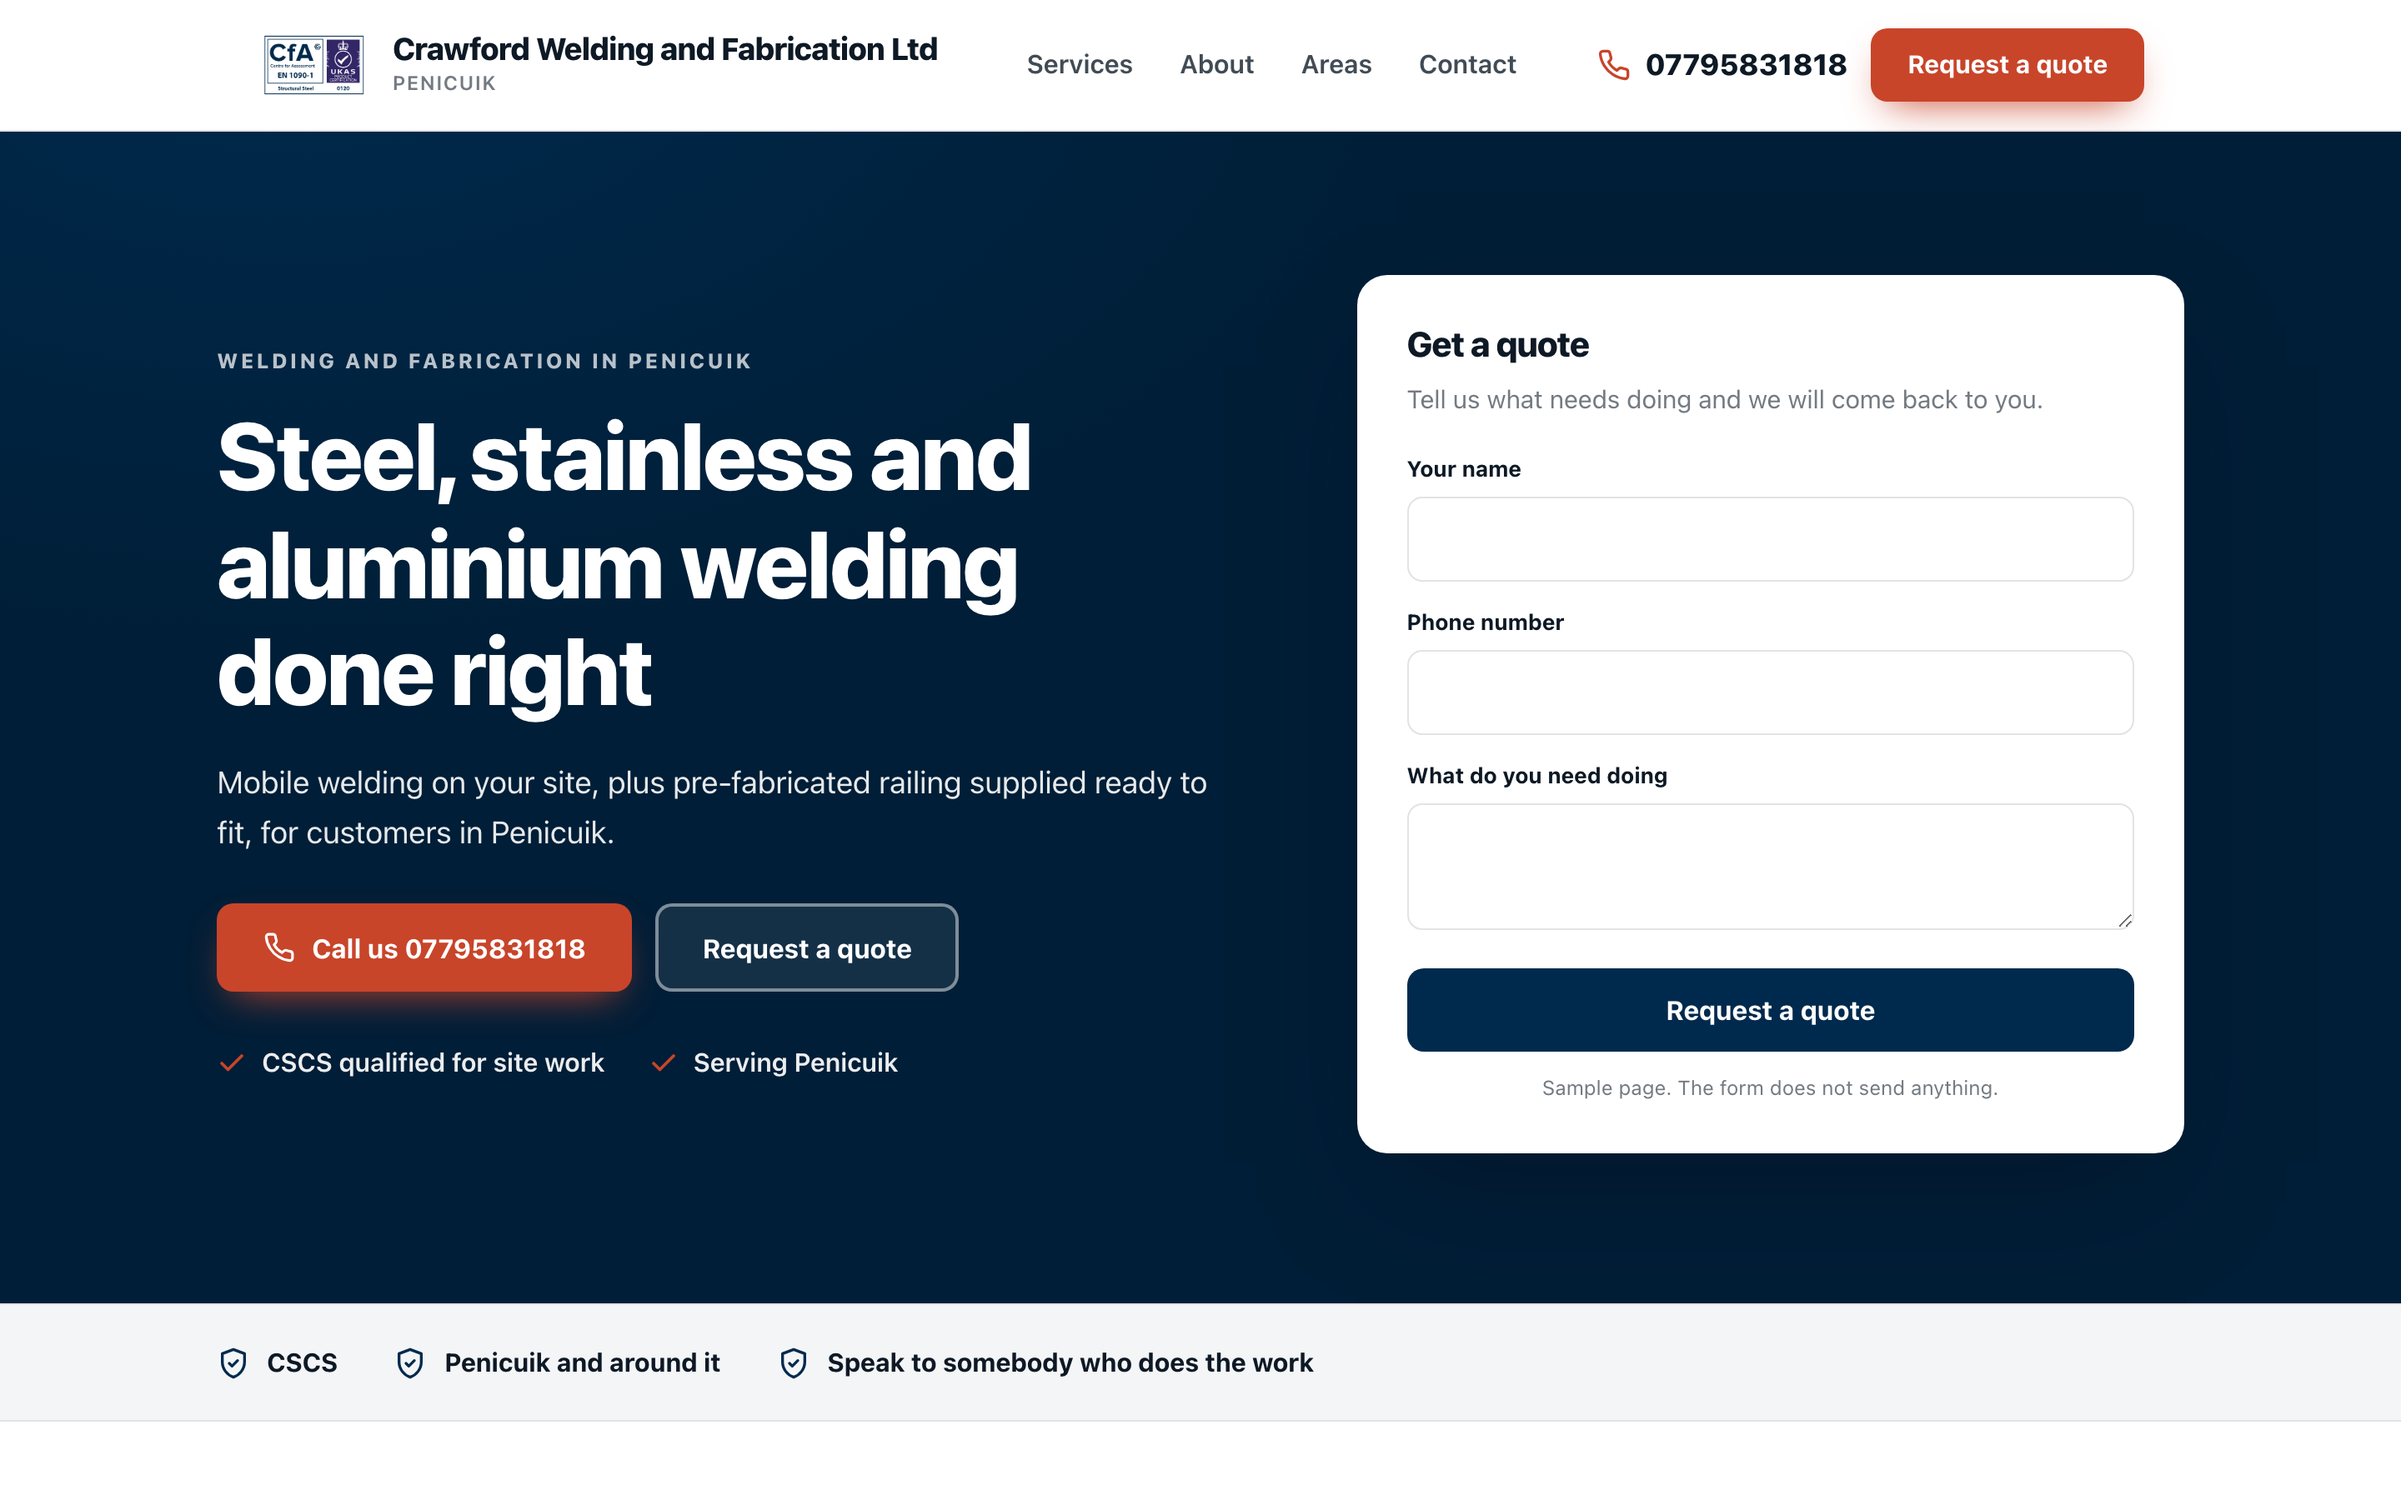
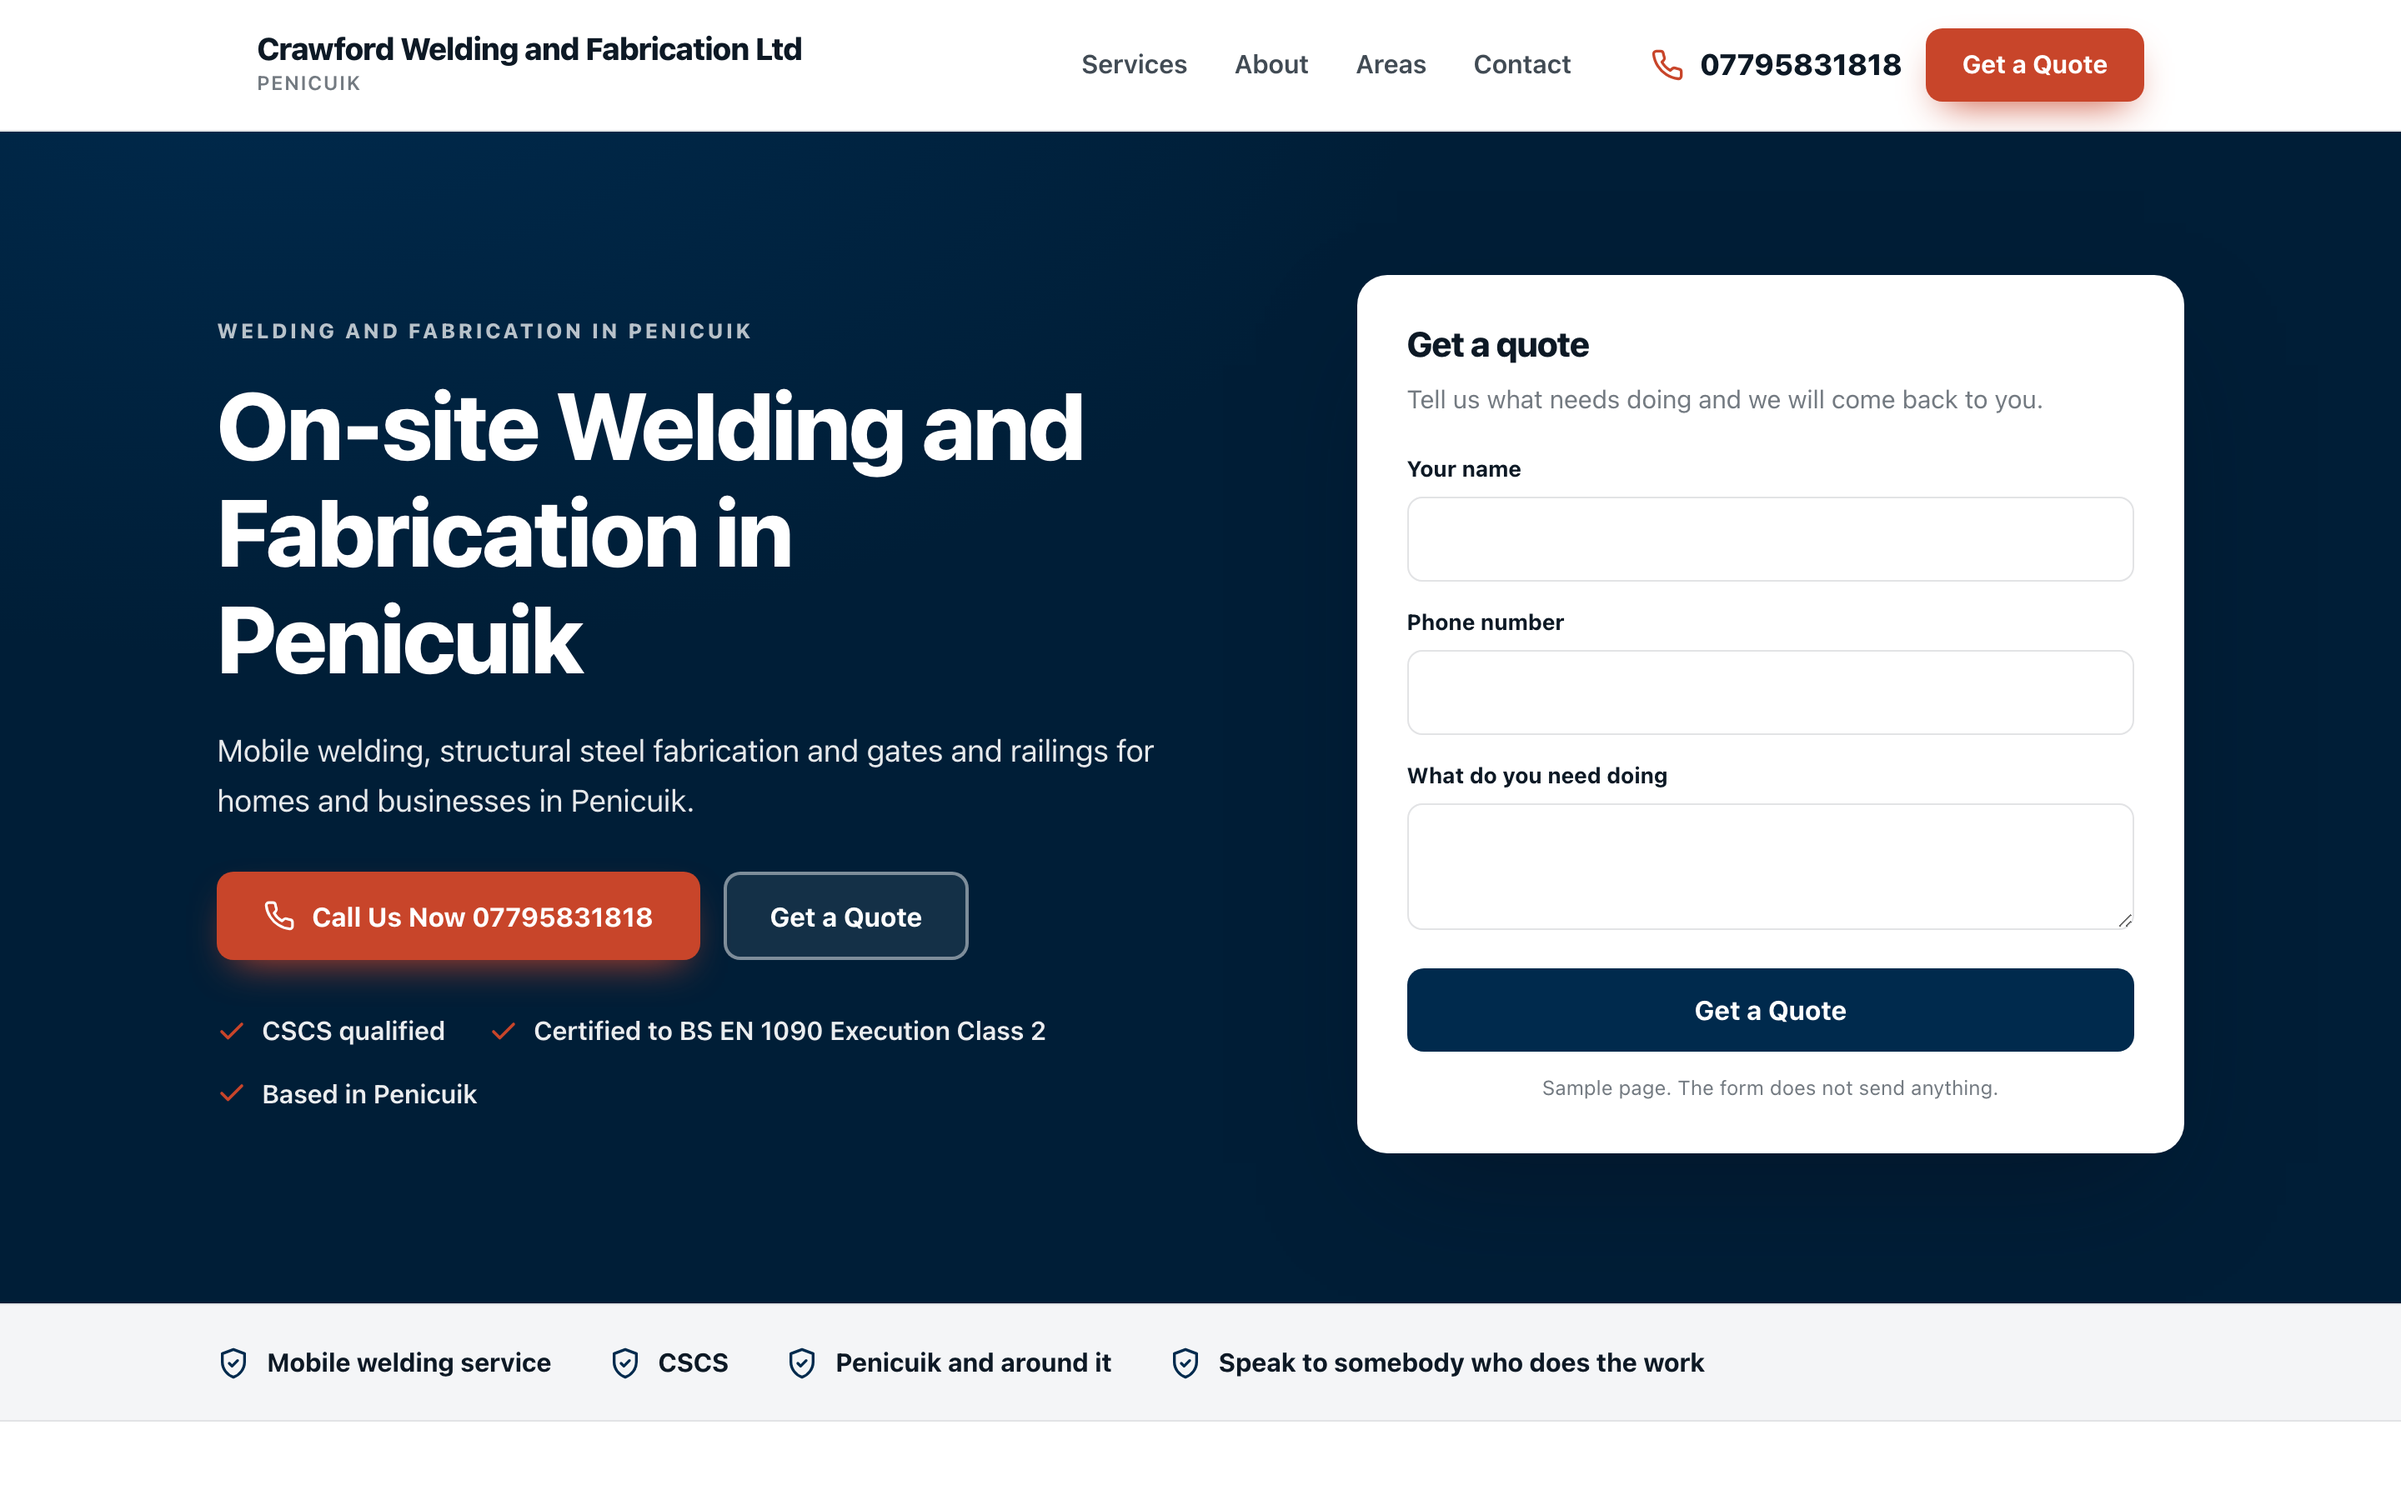
Sample homepage for Crawford Welding and Fabrication Ltd

diff --git a/docs/a8e2c7fbb4/index.html b/docs/a8e2c7fbb4/index.html
@@ -4,12 +4,13 @@
 <meta charset="utf-8">
 <meta name="viewport" content="width=device-width, initial-scale=1">
 <meta name="robots" content="noindex,nofollow">
+<meta name="aso-build" content="">
 <title>Crawford Welding and Fabrication Ltd sample homepage</title>
-<meta name="description" content="Mobile welding on your site, plus pre-fabricated railing supplied ready to fit, for customers in Penicuik.">
+<meta name="description" content="Mobile welding, structural steel fabrication and gates and railings for homes and businesses in Penicuik.">
 <link rel="canonical" href="https://markygff.github.io/aso-mockups/a8e2c7fbb4/">
 <meta property="og:type" content="website">
 <meta property="og:title" content="Crawford Welding and Fabrication Ltd sample homepage">
-<meta property="og:description" content="Mobile welding on your site, plus pre-fabricated railing supplied ready to fit, for customers in Penicuik.">
+<meta property="og:description" content="Mobile welding, structural steel fabrication and gates and railings for homes and businesses in Penicuik.">
 <meta property="og:url" content="https://markygff.github.io/aso-mockups/a8e2c7fbb4/">
 <style>
 :root{
@@ -52,7 +53,8 @@ p{margin:0}
 .nav{display:flex;gap:28px;margin-left:auto;font-weight:600;font-size:.97rem;color:var(--ink)}
 .nav span{opacity:.78}
 .header-cta{display:flex;align-items:center;gap:14px;margin-left:28px}
-.tel{display:flex;align-items:center;gap:9px;font-weight:800;font-size:1.1rem;color:var(--ink)}
+.tel{display:flex;align-items:center;gap:9px;font-weight:800;font-size:1.1rem;
+     color:var(--ink);text-decoration:none}
 .tel svg{width:20px;height:20px;color:var(--accent)}
 .header-cta .btn{padding:12px 20px;font-size:.95rem}
 
@@ -119,7 +121,7 @@ p{margin:0}
 <header class="header">
   <div class="wrap header-in">
     <div class="brand">
-<img src="https://www.crawfordwelding.com/uploads/1/4/1/2/14127146/editor/cfa-cert-logo-colour-ukas-en1090.png?1759786443" alt="Crawford Welding and Fabrication Ltd logo">      <div>
+      <div>
         <div class="brand-name">Crawford Welding and Fabrication Ltd</div>
 <div class="brand-sub">Penicuik</div>      </div>
     </div>
@@ -127,8 +129,8 @@ p{margin:0}
       <span>Services</span><span>About</span><span>Areas</span><span>Contact</span>
     </nav>
     <div class="header-cta">
-      <span class="tel"><svg viewBox="0 0 24 24" fill="none" stroke="currentColor" stroke-width="2" stroke-linecap="round" stroke-linejoin="round" aria-hidden="true"><path d="M22 16.9v3a2 2 0 0 1-2.2 2 19.8 19.8 0 0 1-8.6-3.1 19.5 19.5 0 0 1-6-6 19.8 19.8 0 0 1-3.1-8.7A2 2 0 0 1 4.1 2h3a2 2 0 0 1 2 1.7c.1 1 .4 1.9.7 2.8a2 2 0 0 1-.5 2.1L8.1 9.9a16 16 0 0 0 6 6l1.3-1.2a2 2 0 0 1 2.1-.5c.9.3 1.8.6 2.8.7a2 2 0 0 1 1.7 2z"/></svg><span>07795831818</span></span>
-      <span class="btn btn-accent">Request a quote</span>
+      <a class="tel" href="tel:+447795831818"><svg viewBox="0 0 24 24" fill="none" stroke="currentColor" stroke-width="2" stroke-linecap="round" stroke-linejoin="round" aria-hidden="true"><path d="M22 16.9v3a2 2 0 0 1-2.2 2 19.8 19.8 0 0 1-8.6-3.1 19.5 19.5 0 0 1-6-6 19.8 19.8 0 0 1-3.1-8.7A2 2 0 0 1 4.1 2h3a2 2 0 0 1 2 1.7c.1 1 .4 1.9.7 2.8a2 2 0 0 1-.5 2.1L8.1 9.9a16 16 0 0 0 6 6l1.3-1.2a2 2 0 0 1 2.1-.5c.9.3 1.8.6 2.8.7a2 2 0 0 1 1.7 2z"/></svg><span>07795831818</span></a>
+      <span class="btn btn-accent">Get a Quote</span>
     </div>
   </div>
 </header>
@@ -138,14 +140,14 @@ p{margin:0}
   <div class="wrap hero-in">
     <div>
       <p class="eyebrow">Welding and fabrication in Penicuik</p>
-      <h1>Steel, stainless and aluminium welding done right</h1>
-      <p class="hero-sub">Mobile welding on your site, plus pre-fabricated railing supplied ready to fit, for customers in Penicuik.</p>
+      <h1>On-site Welding and Fabrication in Penicuik</h1>
+      <p class="hero-sub">Mobile welding, structural steel fabrication and gates and railings for homes and businesses in Penicuik.</p>
       <div class="hero-actions">
-        <span class="btn btn-accent"><svg viewBox="0 0 24 24" fill="none" stroke="currentColor" stroke-width="2" stroke-linecap="round" stroke-linejoin="round" aria-hidden="true"><path d="M22 16.9v3a2 2 0 0 1-2.2 2 19.8 19.8 0 0 1-8.6-3.1 19.5 19.5 0 0 1-6-6 19.8 19.8 0 0 1-3.1-8.7A2 2 0 0 1 4.1 2h3a2 2 0 0 1 2 1.7c.1 1 .4 1.9.7 2.8a2 2 0 0 1-.5 2.1L8.1 9.9a16 16 0 0 0 6 6l1.3-1.2a2 2 0 0 1 2.1-.5c.9.3 1.8.6 2.8.7a2 2 0 0 1 1.7 2z"/></svg>Call us 07795831818</span>
-        <span class="btn btn-ghost">Request a quote</span>
+        <span class="btn btn-accent"><svg viewBox="0 0 24 24" fill="none" stroke="currentColor" stroke-width="2" stroke-linecap="round" stroke-linejoin="round" aria-hidden="true"><path d="M22 16.9v3a2 2 0 0 1-2.2 2 19.8 19.8 0 0 1-8.6-3.1 19.5 19.5 0 0 1-6-6 19.8 19.8 0 0 1-3.1-8.7A2 2 0 0 1 4.1 2h3a2 2 0 0 1 2 1.7c.1 1 .4 1.9.7 2.8a2 2 0 0 1-.5 2.1L8.1 9.9a16 16 0 0 0 6 6l1.3-1.2a2 2 0 0 1 2.1-.5c.9.3 1.8.6 2.8.7a2 2 0 0 1 1.7 2z"/></svg>Call Us Now 07795831818</span>
+        <span class="btn btn-ghost">Get a Quote</span>
       </div>
       <ul class="hero-bullets">
-<li><svg viewBox="0 0 24 24" fill="none" stroke="currentColor" stroke-width="2.4" stroke-linecap="round" stroke-linejoin="round" aria-hidden="true"><path d="M20 6 9 17l-5-5"/></svg><span>CSCS qualified for site work</span></li><li><svg viewBox="0 0 24 24" fill="none" stroke="currentColor" stroke-width="2.4" stroke-linecap="round" stroke-linejoin="round" aria-hidden="true"><path d="M20 6 9 17l-5-5"/></svg><span>Serving Penicuik</span></li>      </ul>
+<li><svg viewBox="0 0 24 24" fill="none" stroke="currentColor" stroke-width="2.4" stroke-linecap="round" stroke-linejoin="round" aria-hidden="true"><path d="M20 6 9 17l-5-5"/></svg><span>CSCS qualified</span></li><li><svg viewBox="0 0 24 24" fill="none" stroke="currentColor" stroke-width="2.4" stroke-linecap="round" stroke-linejoin="round" aria-hidden="true"><path d="M20 6 9 17l-5-5"/></svg><span>Certified to BS EN 1090 Execution Class 2</span></li><li><svg viewBox="0 0 24 24" fill="none" stroke="currentColor" stroke-width="2.4" stroke-linecap="round" stroke-linejoin="round" aria-hidden="true"><path d="M20 6 9 17l-5-5"/></svg><span>Based in Penicuik</span></li>      </ul>
     </div>
     <div class="quote-card">
       <h3>Get a quote</h3>
@@ -153,7 +155,7 @@ p{margin:0}
       <div class="field"><label>Your name</label><input type="text" disabled></div>
       <div class="field"><label>Phone number</label><input type="tel" disabled></div>
       <div class="field"><label>What do you need doing</label><textarea disabled></textarea></div>
-      <span class="btn btn-primary">Request a quote</span>
+      <span class="btn btn-primary">Get a Quote</span>
       <p class="sample-note">Sample page. The form does not send anything.</p>
     </div>
   </div>
@@ -161,6 +163,7 @@ p{margin:0}
 
 <div class="strip">
   <div class="wrap strip-in">
+    <div class="strip-item"><svg viewBox="0 0 24 24" fill="none" stroke="currentColor" stroke-width="2" stroke-linecap="round" stroke-linejoin="round" aria-hidden="true"><path d="M12 2 4 5v6c0 5 3.4 9.4 8 11 4.6-1.6 8-6 8-11V5z"/><path d="m9 12 2 2 4-4"/></svg><span>Mobile welding service</span></div>
     <div class="strip-item"><svg viewBox="0 0 24 24" fill="none" stroke="currentColor" stroke-width="2" stroke-linecap="round" stroke-linejoin="round" aria-hidden="true"><path d="M12 2 4 5v6c0 5 3.4 9.4 8 11 4.6-1.6 8-6 8-11V5z"/><path d="m9 12 2 2 4-4"/></svg><span>CSCS</span></div>
     <div class="strip-item"><svg viewBox="0 0 24 24" fill="none" stroke="currentColor" stroke-width="2" stroke-linecap="round" stroke-linejoin="round" aria-hidden="true"><path d="M12 2 4 5v6c0 5 3.4 9.4 8 11 4.6-1.6 8-6 8-11V5z"/><path d="m9 12 2 2 4-4"/></svg><span>Penicuik and around it</span></div>
     <div class="strip-item"><svg viewBox="0 0 24 24" fill="none" stroke="currentColor" stroke-width="2" stroke-linecap="round" stroke-linejoin="round" aria-hidden="true"><path d="M12 2 4 5v6c0 5 3.4 9.4 8 11 4.6-1.6 8-6 8-11V5z"/><path d="m9 12 2 2 4-4"/></svg><span>Speak to somebody who does the work</span></div>
@@ -172,23 +175,28 @@ p{margin:0}
     <div class="services-head">
       <p class="eyebrow">What we do</p>
       <h2>Crawford Welding and Fabrication Ltd, Penicuik</h2>
-      <p>Mobile welding on your site, plus pre-fabricated railing supplied ready to fit, for customers in Penicuik.</p>
+      <p>Mobile welding, structural steel fabrication and gates and railings for homes and businesses in Penicuik.</p>
     </div>
     <div class="grid">
       <article class="card">
         <div class="icon"><svg viewBox="0 0 24 24" fill="none" stroke="currentColor" stroke-width="2" stroke-linecap="round" stroke-linejoin="round" aria-hidden="true"><path d="M14.7 6.3a4 4 0 0 0 5.3 5.3l-8 8a3 3 0 0 1-4.2-4.2z"/><path d="m14.7 6.3 3-3"/></svg></div>
         <h3>Mobile welding</h3>
-        <p>We weld onsite in MMA, TIG or MIG process, whatever the job needs.</p>
+        <p>We come to you and weld on site, no need to bring the job in.</p>
       </article>
       <article class="card">
         <div class="icon"><svg viewBox="0 0 24 24" fill="none" stroke="currentColor" stroke-width="2" stroke-linecap="round" stroke-linejoin="round" aria-hidden="true"><path d="M13 2 4 14h7l-1 8 9-12h-7z"/></svg></div>
-        <h3>Mobile welding</h3>
-        <p>We also offer oxy-acetylene cutting, plasma cutting and hole drilling on site.</p>
+        <h3>Structural steel fabrications</h3>
+        <p>We fabricate structural steel to BS EN 1090 Execution Class 2.</p>
       </article>
       <article class="card">
         <div class="icon"><svg viewBox="0 0 24 24" fill="none" stroke="currentColor" stroke-width="2" stroke-linecap="round" stroke-linejoin="round" aria-hidden="true"><path d="M3 10.5 12 3l9 7.5"/><path d="M5 9.5V21h14V9.5"/><path d="M10 21v-6h4v6"/></svg></div>
+        <h3>Gates and railings</h3>
+        <p>We build gates and railings to order, made to fit your job.</p>
+      </article>
+      <article class="card">
+        <div class="icon"><svg viewBox="0 0 24 24" fill="none" stroke="currentColor" stroke-width="2" stroke-linecap="round" stroke-linejoin="round" aria-hidden="true"><path d="M4 20 15 9"/><path d="m14 4 6 6-3 3-6-6z"/><path d="m3 15 6 6"/></svg></div>
         <h3>pre- fabricated railing</h3>
-        <p>We can supply lengths of pre-fabricated railing ready to fit.</p>
+        <p>We also supply lengths of pre-fabricated railing ready to fit.</p>
       </article>
     </div>
   </div>
